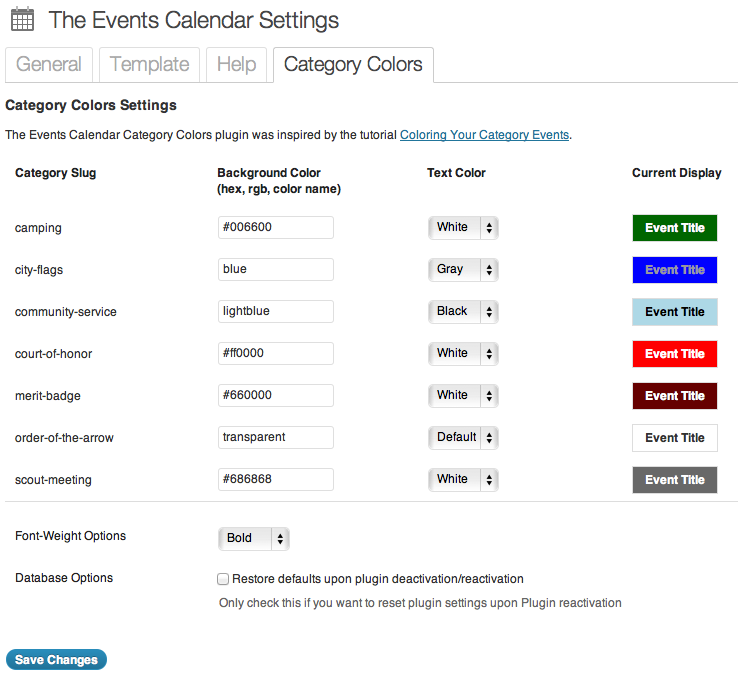
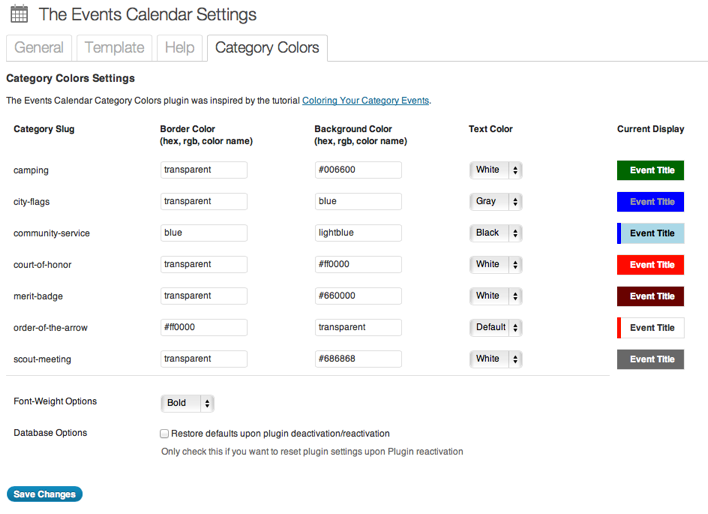
Added border-left styling

diff --git a/the-events-calendar-category-colors.php b/the-events-calendar-category-colors.php
@@ -3,7 +3,7 @@
 Plugin Name: The Events Calendar Category Colors
 Plugin URI: http://wordpress.org/extend/plugins/the-events-calendar-category-colors/
 Description: This plugin adds event category background coloring to <a href="http://wordpress.org/extend/plugins/the-events-calendar/">The Events Calendar</a> plugin.
-Version: 1.2.1
+Version: 1.2.2
 Text Domain: events-calendar-category-colors
 Author: Andy Fragen
 Author URI: http://thefragens.com/blog/
@@ -89,7 +89,7 @@ function writeCategoryCSS() {
 		if (!($options[$slugs[$i].'-text'] == "0")) {
 			$catCSS[] = '.tribe-events-calendar .cat_' . $slugs[$i] . ' a { color: ' .  $options[$slugs[$i].'-text'] . '; }' ;
 		}
-		$catCSS[] = '.tribe-events-calendar .cat_' . $slugs[$i] . ', .cat_' . $slugs[$i] . ' > .tribe-events-tooltip .tribe-events-event-title { background-color: ' . $options[$slugs[$i].'-background'] . '; }' ;
+		$catCSS[] = '.tribe-events-calendar .cat_' . $slugs[$i] . ', .cat_' . $slugs[$i] . ' > .tribe-events-tooltip .tribe-events-event-title { background-color: ' . $options[$slugs[$i].'-background'] . '; border-left: 5px solid ' . $options[$slugs[$i].'-border'] . ' }' ;
 	}
 	$catCSS[] = "</style>";
 	$content = implode( "\n", $catCSS ) . "\n";
@@ -146,6 +146,7 @@ function teccc_add_defaults() {
 		for ($i = 0; $i < $count; $i++) {
 			$arr[$slugs[$i]."-text"] = "0";
 			$arr[$slugs[$i]."-background"] = "transparent";
+			$arr[$slugs[$i]."-border"] = "transparent";
 		}
 		$arr['font_weight'] = "bold";
 		update_option('teccc_options', $arr);
@@ -236,10 +237,11 @@ function teccc_options_elements() {
 	$form = array();
 	$form[] = '<table class="form-table">';
 	$form[] = '<style type="text/css">.form-table th { font-size: 12px; }</style>';
-	$form[] = "<tr><th><strong>Category Slug</strong></th><th><strong>Background Color<br />(hex, rgb, color name)</strong></th><th><strong>Text Color</strong></th><th><strong>Current Display</strong></th></tr>";
+	$form[] = "<tr><th><strong>Category Slug</strong></th><th><strong>Border Color<br />(hex, rgb, color name)</strong></th><th><strong>Background Color<br />(hex, rgb, color name)</strong></th><th><strong>Text Color</strong></th><th><strong>Current Display</strong></th></tr>";
 	for ($i = 0; $i < $count; $i++) {
 		$form[] = "<tr>";
 		$form[] = "<td>" . $slugs[$i] . "</td>";
+		$form[] = "<td><input type=\"text\" size=\"12\" name=\"teccc_options[" . $slugs[$i] . "-border]\" value=\"" . $options[$slugs[$i].'-border'] . "\" /></td>" ;
 		$form[] = "<td><input type=\"text\" size=\"12\" name=\"teccc_options[" . $slugs[$i] . "-background]\" value=\"" . $options[$slugs[$i].'-background'] . "\" /></td>" ;
 		$form[] = "<td><select name='teccc_options[" . $slugs[$i] . "-text]'>" ;		
 
@@ -248,9 +250,9 @@ function teccc_options_elements() {
 		}
 		$form[] = "</select></td>";
 		if(($options[$slugs[$i].'-text'] == '0')) {
-			$form[] = "<td><span style=\"border:1px #ddd solid;background-color:" . $options[$slugs[$i].'-background'] . ";padding:0.5em 1em;font-weight:" . $options['font_weight'] . ";\">Event Title</span></td>";
+			$form[] = "<td><span style=\"border:1px #ddd solid;background-color:" . $options[$slugs[$i].'-background'] . ";border-left: 5px solid " . $options[$slugs[$i].'-border'] . ";padding:0.5em 1em;font-weight:" . $options['font_weight'] . ";\">Event Title</span></td>";
 		} else {
-			$form[] = "<td><span style=\"border:1px #ddd solid;background-color:" . $options[$slugs[$i].'-background'] . ";color:" . $options[$slugs[$i].'-text'] . ";padding:0.5em 1em;font-weight:" . $options['font_weight'] . ";\">Event Title</span></td>";
+			$form[] = "<td><span style=\"border:1px #ddd solid;background-color:" . $options[$slugs[$i].'-background'] . ";border-left: 5px solid " . $options[$slugs[$i].'-border'] . ";color:" . $options[$slugs[$i].'-text'] . ";padding:0.5em 1em;font-weight:" . $options['font_weight'] . ";\">Event Title</span></td>";
 		}
 		$form[] = "</tr>\n";
 	}
@@ -280,6 +282,10 @@ function teccc_validate_options($input) {
 		// Sanitize textbox input (strip html tags, and escape characters)
 		$input[$slugs[$i].'-background'] =  wp_filter_nohtml_kses($input[$slugs[$i].'-background']);
 		$input[$slugs[$i].'-background'] =  ereg_replace( "[^#A-Za-z0-9]", "", $input[$slugs[$i].'-background'] );
+		if ( $input[$slugs[$i].'-background'] == '' ) { $input[$slugs[$i].'-background'] = 'transparent'; }
+		$input[$slugs[$i].'-border'] =  wp_filter_nohtml_kses($input[$slugs[$i].'-border']);
+		$input[$slugs[$i].'-border'] =  ereg_replace( "[^#A-Za-z0-9]", "", $input[$slugs[$i].'-border'] );
+		if ( $input[$slugs[$i].'-border'] == '' ) { $input[$slugs[$i].'-border'] = 'transparent'; }
 		// Sanitize dropdown input (make sure value is one of options allowed)
 		if ( !in_array($input[$slugs[$i].'-text'], $teccc_text_colors, true) ) {
 			$input[$slugs[$i].'-text'] = "0";
